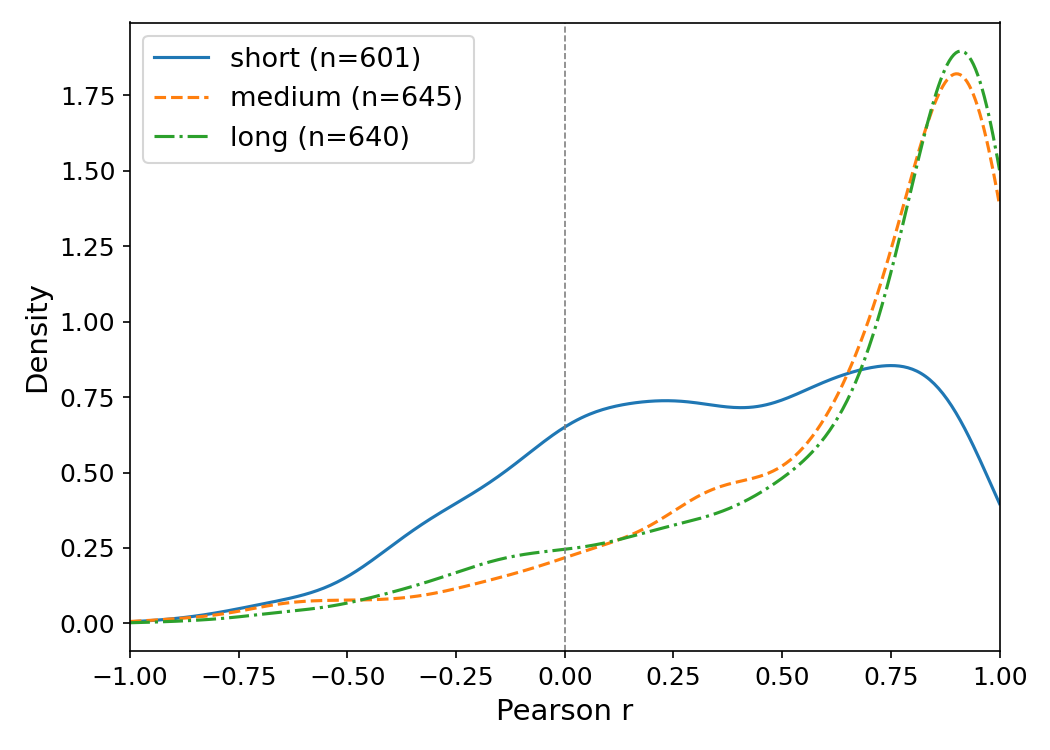
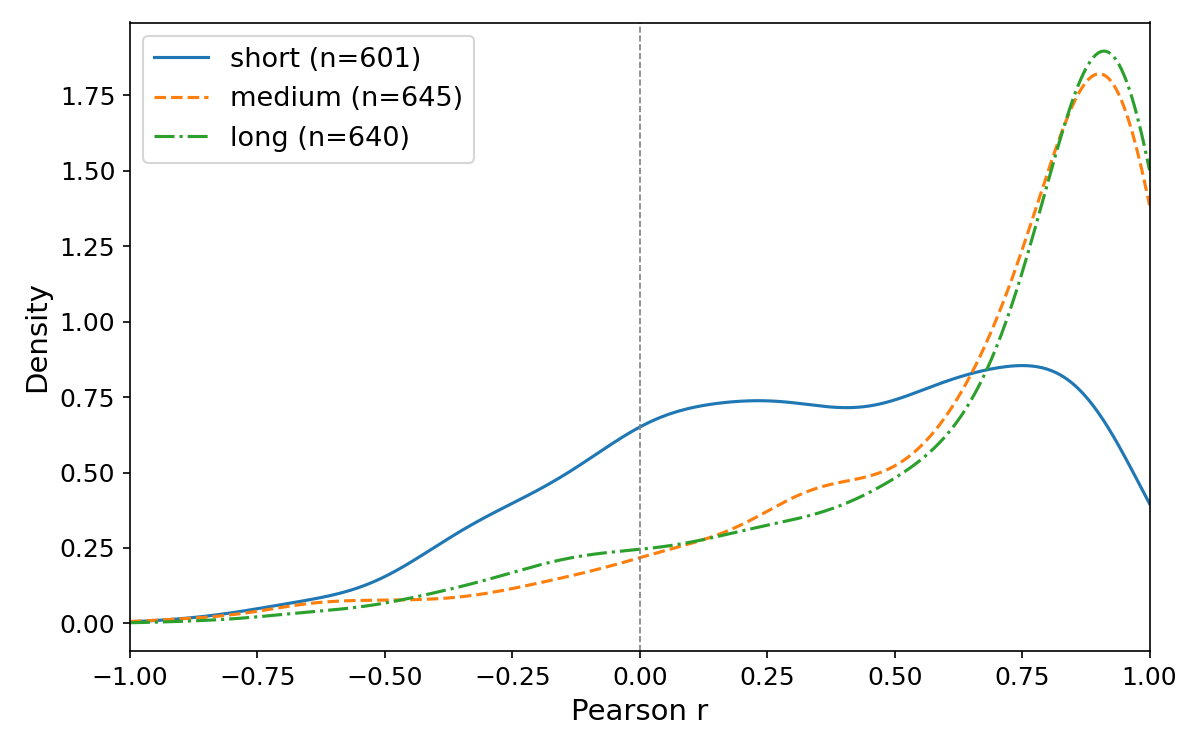
minor changes to figures

diff --git a/src/vis/gaze_mouse_kmeans.py b/src/vis/gaze_mouse_kmeans.py
@@ -25,9 +25,9 @@ from worker_filter import BAD_WORKERS
 # Hyperparameters
 # ---------------------------------------------------------------------------
 MODALITY  = "gaze"        # "gaze" or "mouse"
-SIDE      = "right"        # "left" or "right"
-DATA_TYPE = "histogram"    # "histogram" or "time_interp"
-# DATA_TYPE = "time_interp"    # "histogram" or "time_interp"
+SIDE      = "left"        # "left" or "right"
+# DATA_TYPE = "histogram"    # "histogram" or "time_interp"
+DATA_TYPE = "time_interp"    # "histogram" or "time_interp"
 
 RANDOM_STATE = 42
 EXCLUDE_BAD_WORKERS = True   # set False to include all workers
@@ -36,6 +36,8 @@ N_GROUPS = 2        # number of shape-similarity groups for centroid/sample plot
 MIN_CLUSTER_SAMPLES = 10  # clusters smaller than this are excluded from group plots
 # Manual overrides: cluster 1-indexed label -> group 0-indexed.  e.g. {4: 1} moves C4 to Group 2.
 CENTROID_GROUP_OVERRIDES: dict = {4: 1}
+# Manual overrides for sample plot: sample 1-indexed label -> group 0-indexed.
+SAMPLE_GROUP_OVERRIDES: dict = {3: 0}
 
 # histogram needs a lower k to avoid tiny outlier clusters; time_interp handles k=10 fine
 N_CLUSTERS = 6 if DATA_TYPE == "histogram" else 10
@@ -140,7 +142,7 @@ for g, ax in enumerate(axes1):
                 label=f"C{idx + 1} (n={cluster_counts[idx]})")
     _ax_labels(ax)
     ax.legend(fontsize=13)
-    ax.set_title(f"Group {g + 1}  ({len(member_idxs)} clusters)", fontsize=14)
+    ax.set_title(f"Group {g + 1}  ({len(member_idxs)} clusters)", fontsize=18)
 
 fig1.savefig(OUTPUT_PATH, dpi=150)
 shutil.copy(OUTPUT_PATH, _MAIN_PAPER_DIR)
@@ -158,6 +160,11 @@ _sample_group_labels = KMeans(
     n_clusters=_n_sample_groups, random_state=RANDOM_STATE, n_init=10
 ).fit_predict(sample_rows)
 
+for _s1idx, _tgt_grp in SAMPLE_GROUP_OVERRIDES.items():
+    _pos = _s1idx - 1
+    if 0 <= _pos < len(_sample_group_labels):
+        _sample_group_labels[_pos] = _tgt_grp
+
 fig2, axes2 = plt.subplots(1, _n_sample_groups, figsize=(6 * _n_sample_groups, 5),
                             sharey=_sharey, constrained_layout=True)
 for g, ax in enumerate(axes2):
@@ -168,7 +175,7 @@ for g, ax in enumerate(axes2):
                 label=f"Sample {idx + 1} (row {row_i})")
     _ax_labels(ax)
     ax.legend(fontsize=13)
-    ax.set_title(f"Group {g + 1}  ({len(member_idxs)} samples)", fontsize=14)
+    ax.set_title(f"Group {g + 1}  ({len(member_idxs)} samples)", fontsize=18)
 
 fig2.savefig(OUTPUT_PATH_SAMPLE, dpi=150)
 shutil.copy(OUTPUT_PATH_SAMPLE, _MAIN_PAPER_DIR)

diff --git a/src/vis/gaze_mouse_correlation.py b/src/vis/gaze_mouse_correlation.py
@@ -198,7 +198,7 @@ plt.close(fig)
 print(f"Saved overall plot to {PLOT_OVERALL}")
 
 # KDE by length category
-fig, ax = plt.subplots(figsize=(7, 5))
+fig, ax = plt.subplots(figsize=(8, 5))
 for cat, style in LEN_STYLES.items():
     vals = results_df[results_df["length_category"] == cat]["pearson_r"].values
     _kde_curve(ax, vals, cat, **style)
